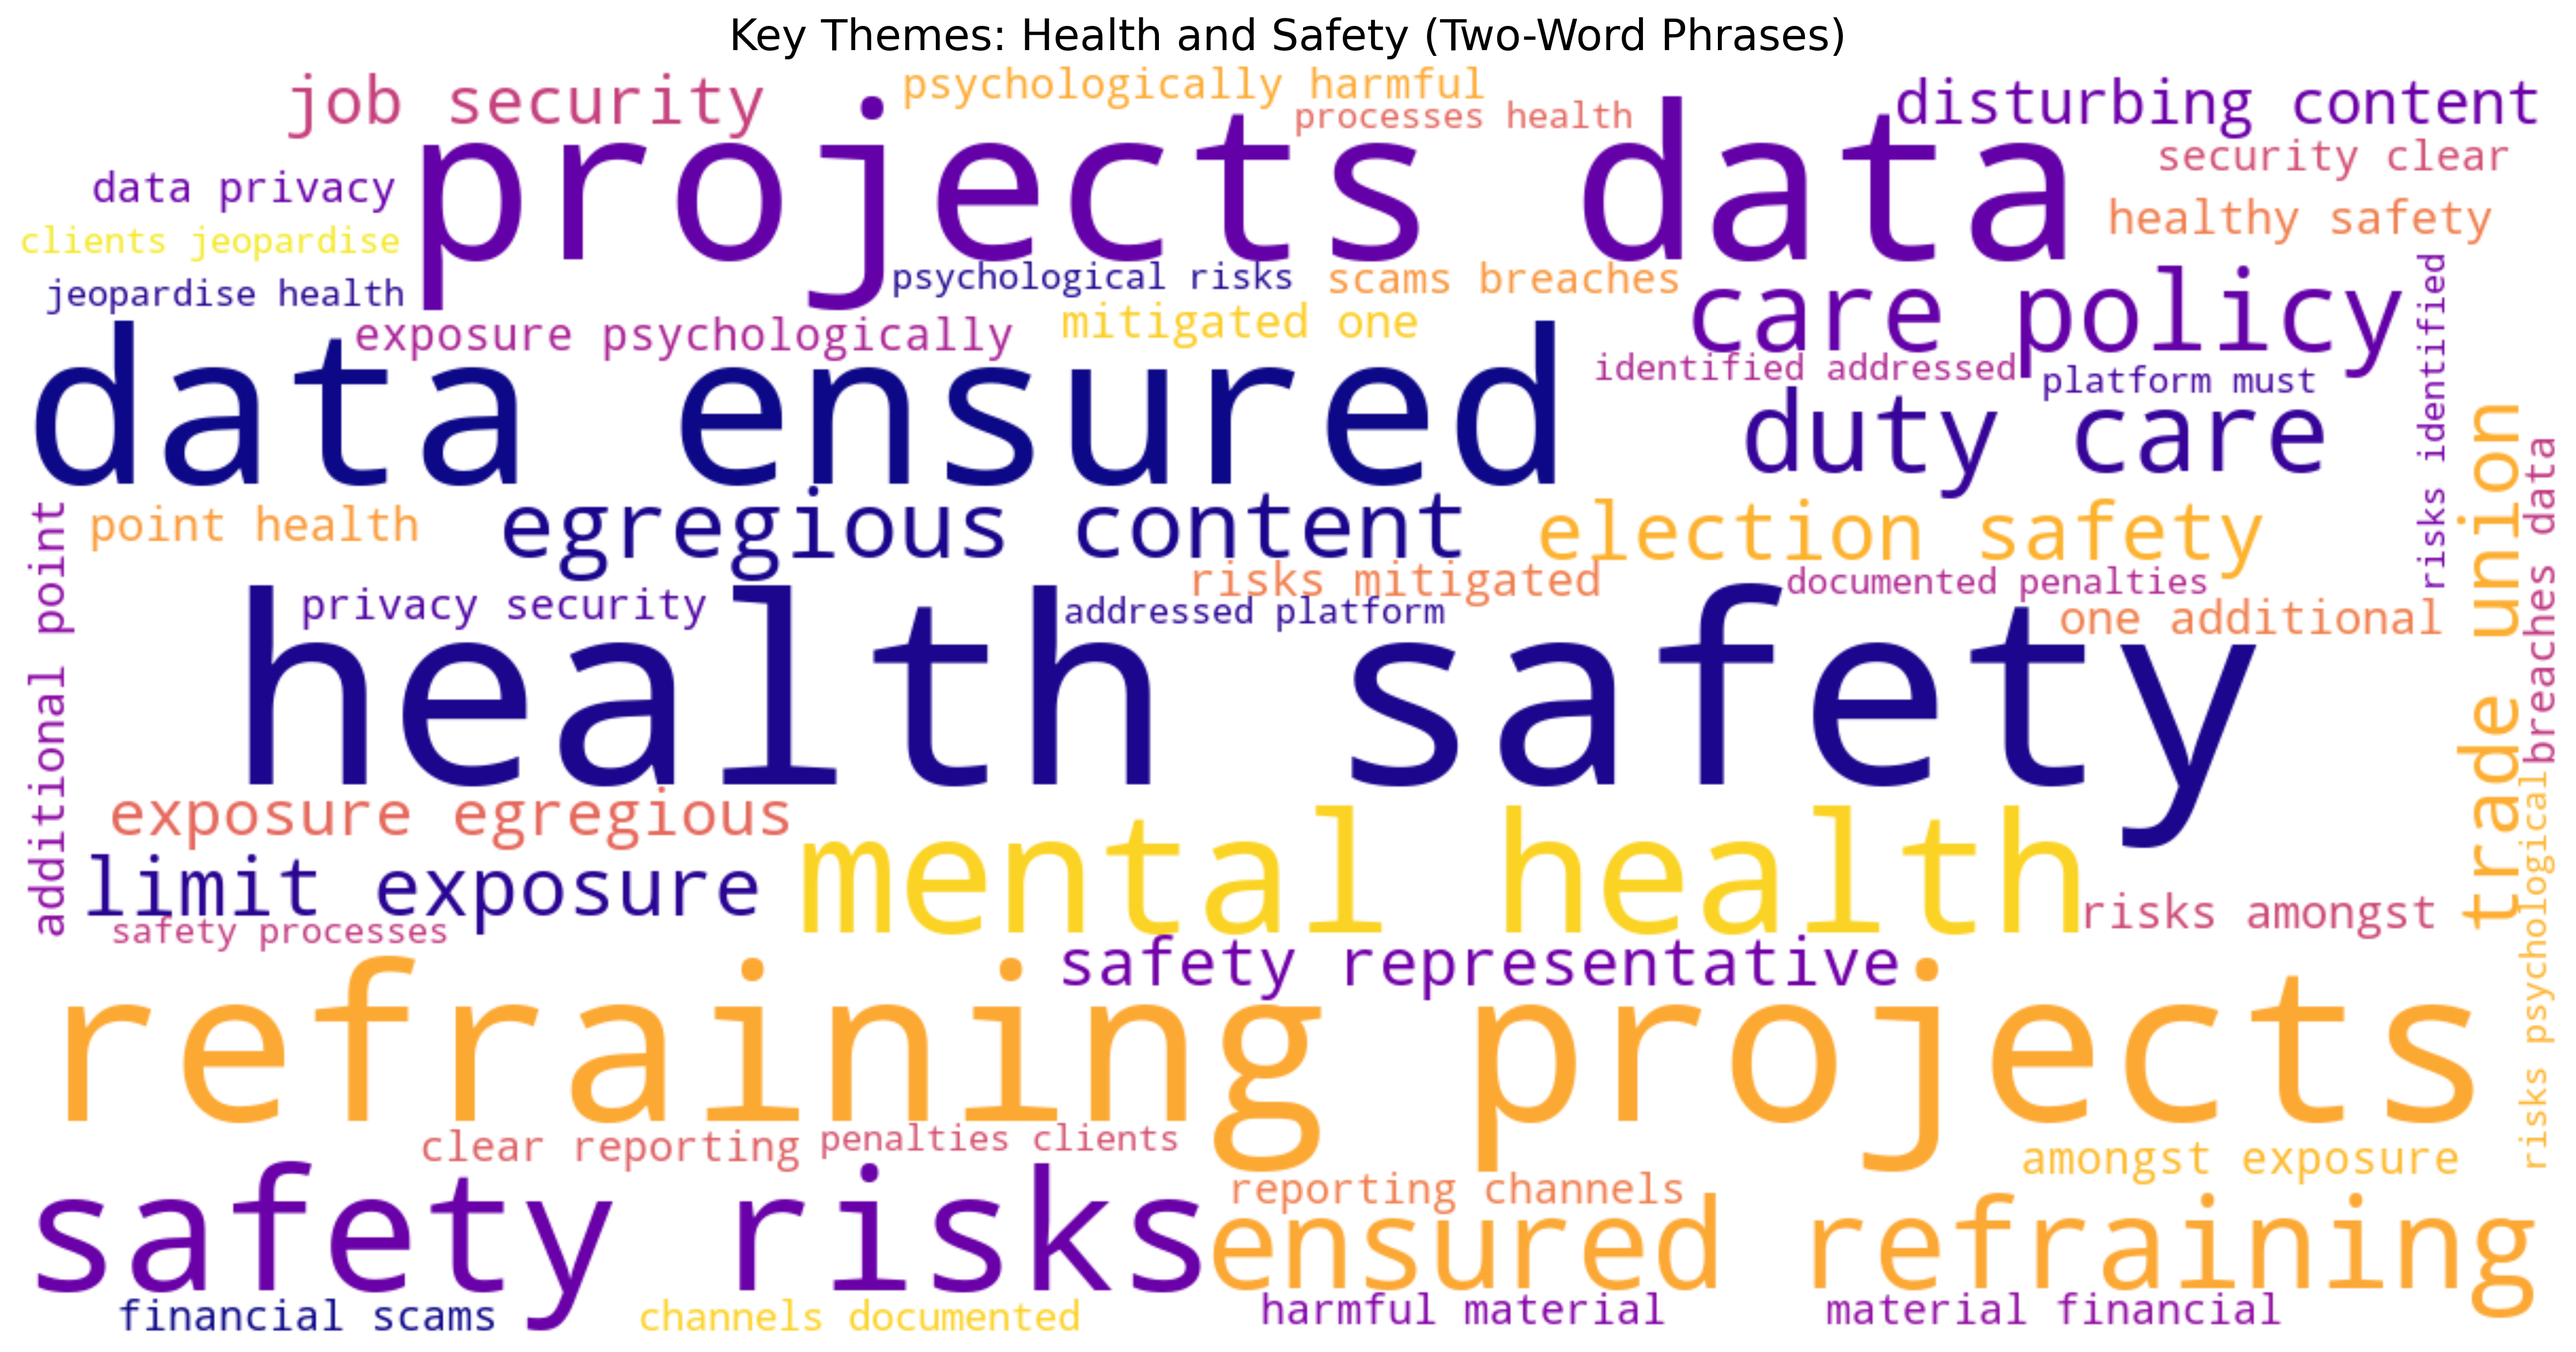
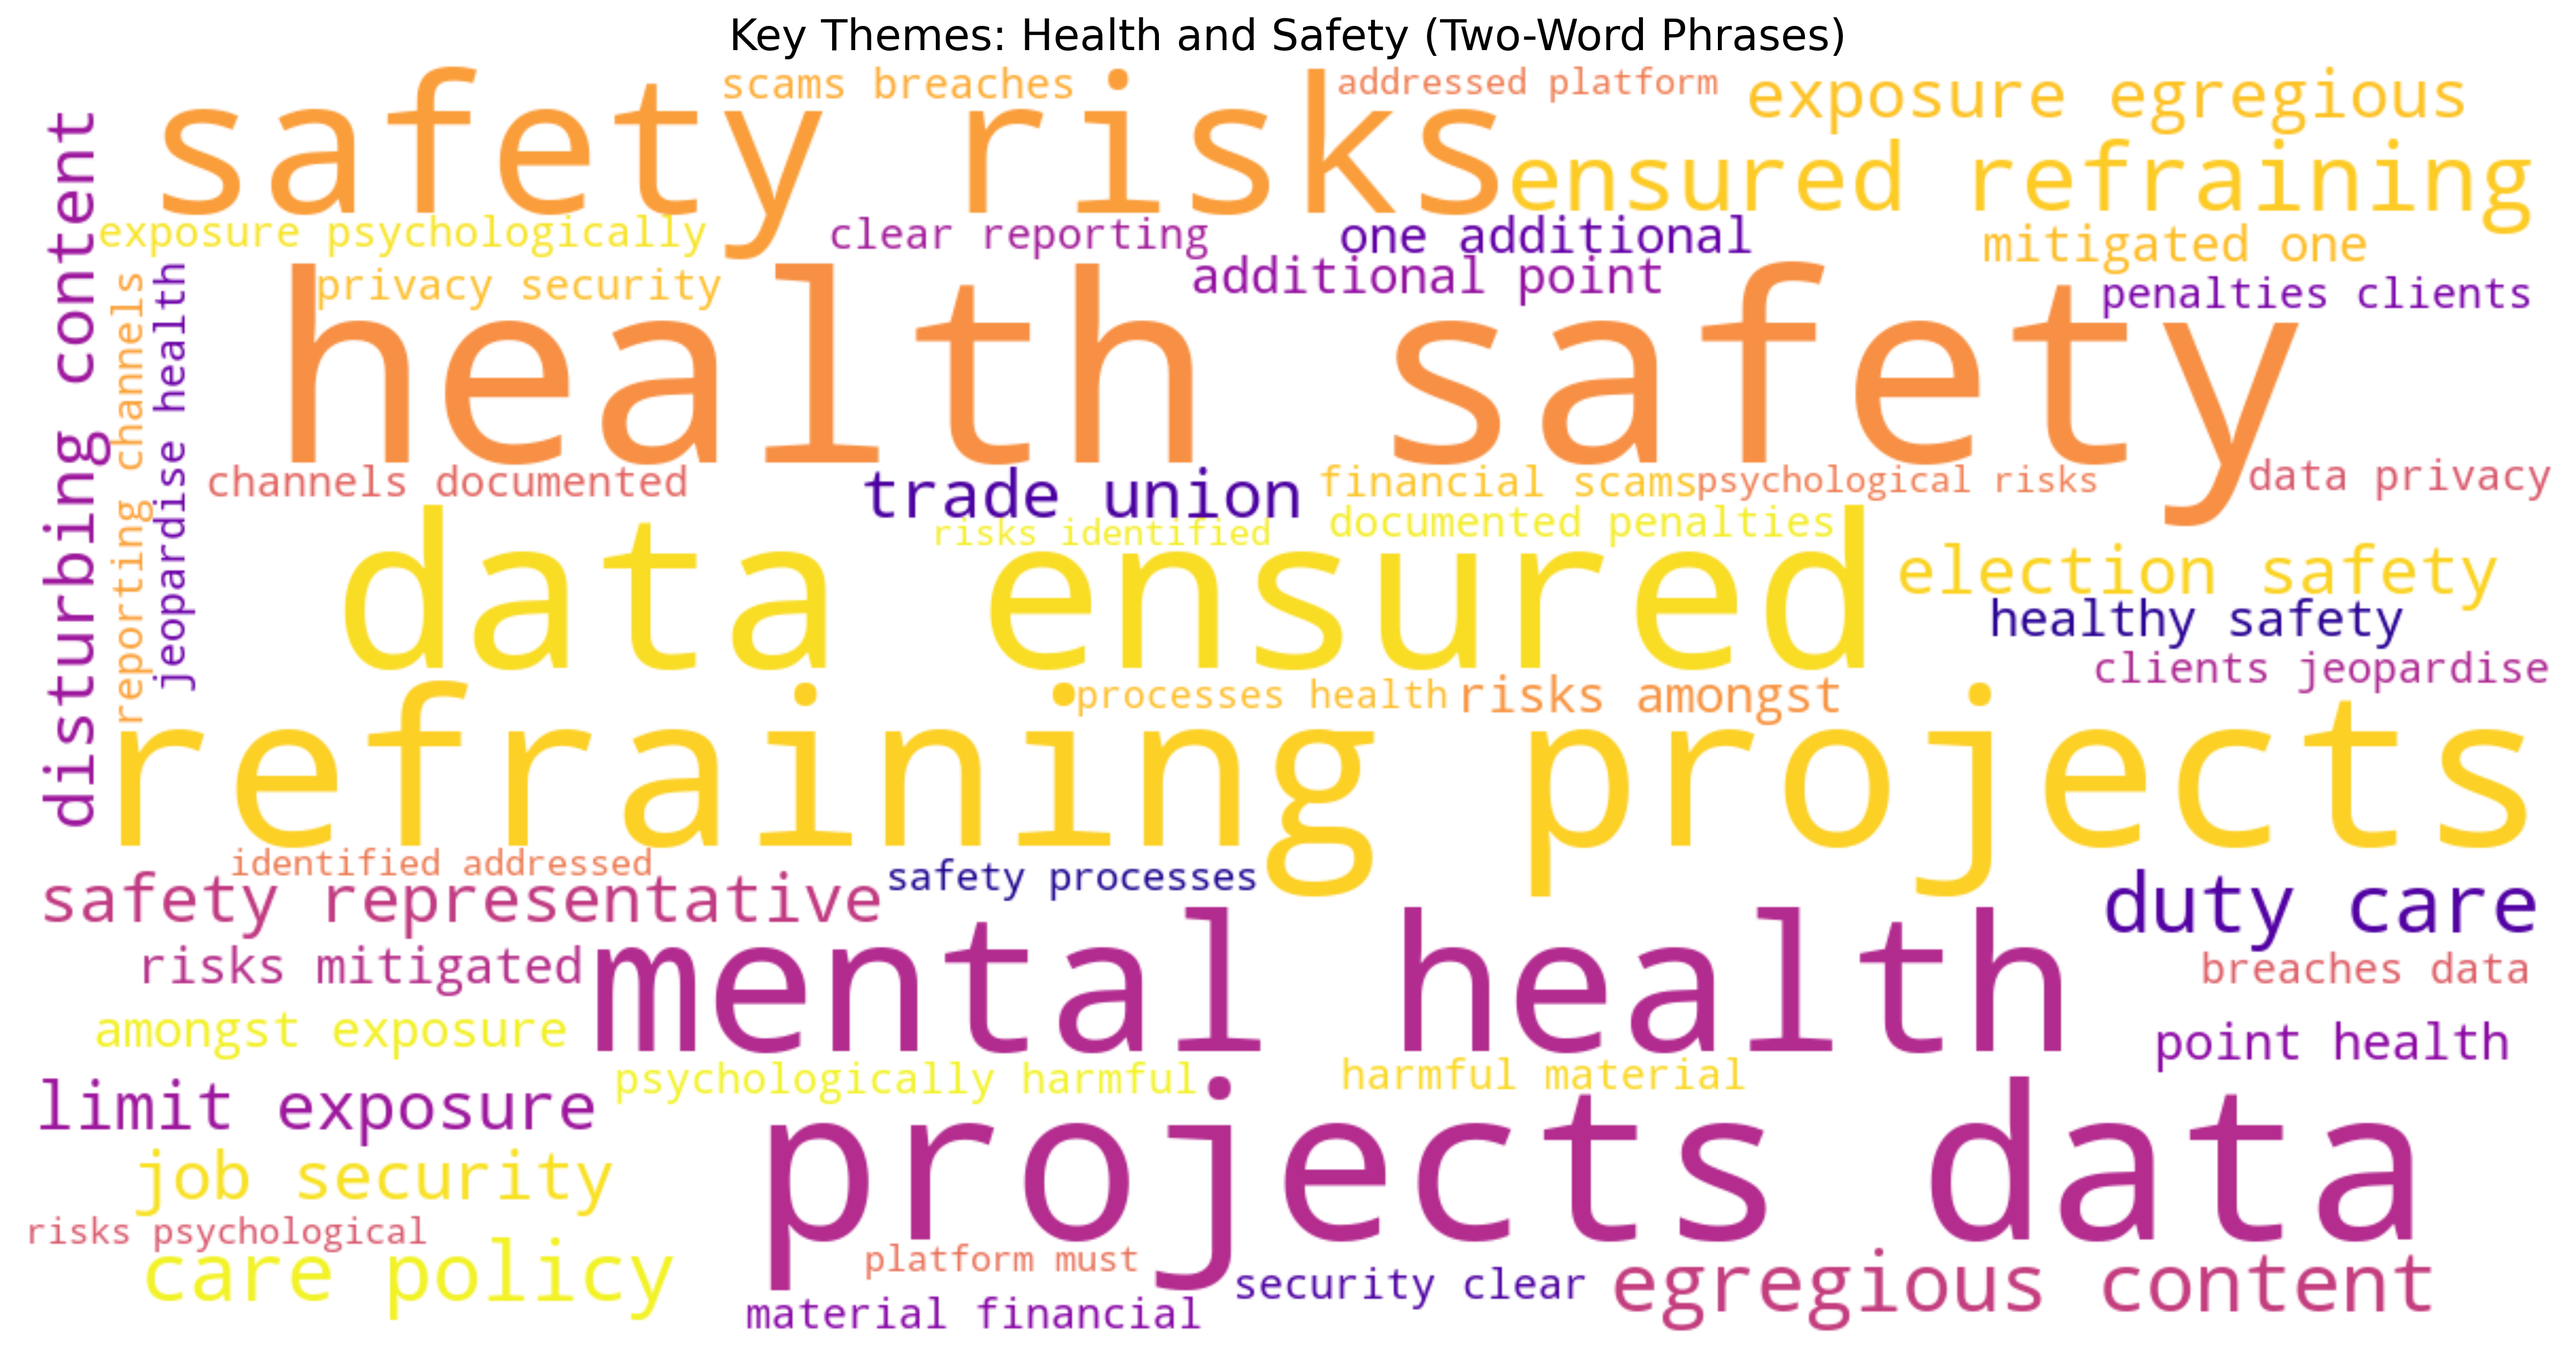
added word clouds for full corpus

diff --git a/analysis.py b/analysis.py
@@ -623,6 +623,69 @@ print("\n" + "="*60)
 print("All word clouds generated successfully!")
 print("="*60)
 
+# Creat word cloud for all parameters combined
+all_text = ' '.join(melted['sentence'].astype(str)).lower()
+filtered_words_all = [word for word in all_text.split()
+                        if word not in stop_words and len(word) > 3]
+word_freq_all = Counter(filtered_words_all)
+
+# Individual words
+print(f"\n=== Top 20 Individual Words: Full Corpus ===")
+
+# Print top words
+for word, count in word_freq_all.most_common(20):
+    print(f"{word}: {count}")
+
+# Create word cloud
+wordcloud = WordCloud(
+        width=1200, 
+        height=600,
+        background_color='white',
+        colormap='viridis'
+    ).generate_from_frequencies(word_freq_all)
+
+plt.figure(figsize=(15, 8))
+plt.imshow(wordcloud, interpolation='bilinear')
+plt.axis('off')
+plt.title(f'Word Cloud: Full Corpus (Individual Words)', fontsize=18)
+plt.tight_layout()
+plt.savefig(f'./plots/wordcloud_words_fullcorpus.png', bbox_inches='tight', dpi=300)
+plt.show()
+
+# Phrases
+print(f"\n=== Top 20 Two-Word Phrases: Full Corpus ===")
+
+# Tokenize and filter
+tokens_all = nltk.word_tokenize(all_text)
+filtered_tokens_all = [w for w in tokens_all if w.isalpha() and w not in stop_words and len(w) > 2]
+
+# Create bigrams
+bigrams_all = list(ngrams(filtered_tokens_all, 2))
+bigram_phrases_all = [' '.join(gram) for gram in bigrams_all]
+bigram_freq_all = Counter(bigram_phrases_all)
+
+# Print top phrases
+for phrase, count in bigram_freq_all.most_common(20):
+    print(f"{phrase}: {count}")
+
+# Create word cloud
+wordcloud = WordCloud(
+        width=1200, 
+        height=600,
+        background_color='white',
+        colormap='viridis'
+).generate_from_frequencies(dict(bigram_freq_all.most_common(50)))
+
+plt.figure(figsize=(15, 8))
+plt.imshow(wordcloud, interpolation='bilinear')
+plt.axis('off')
+plt.title(f'Key Themes: Full Corpus (Two-Word Phrases)', fontsize=18)
+plt.tight_layout()
+plt.savefig(f'./plots/wordcloud_phrases_fullcorpus.png', bbox_inches='tight', dpi=300)
+plt.show()
+
+
+
 # Look at sentences for top parameters
 freedom_sentences = params['Freedom of Association'][['policy_title', 'sentence']].drop_duplicates()
 
